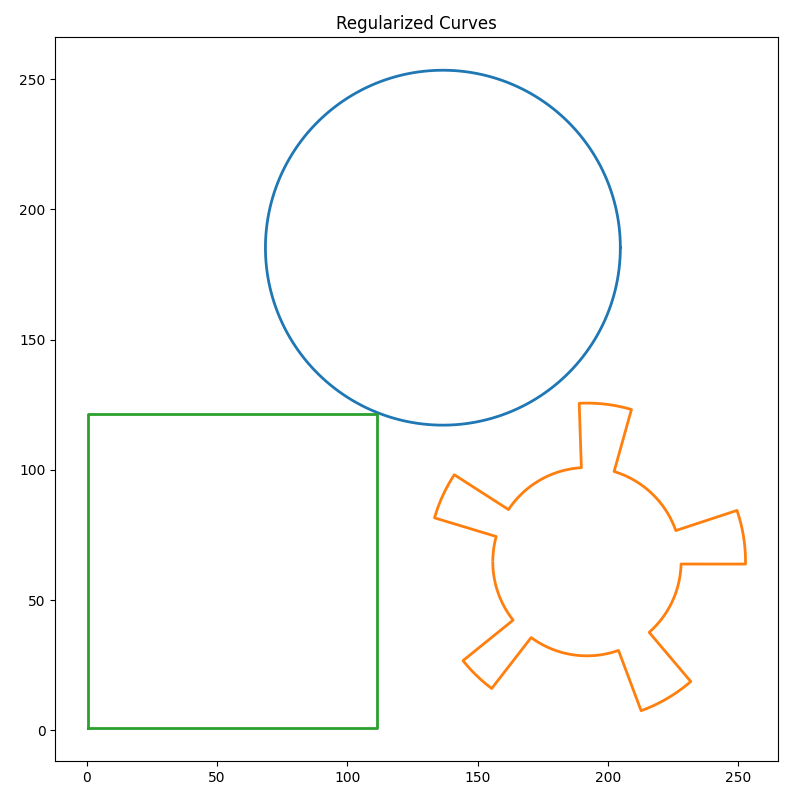
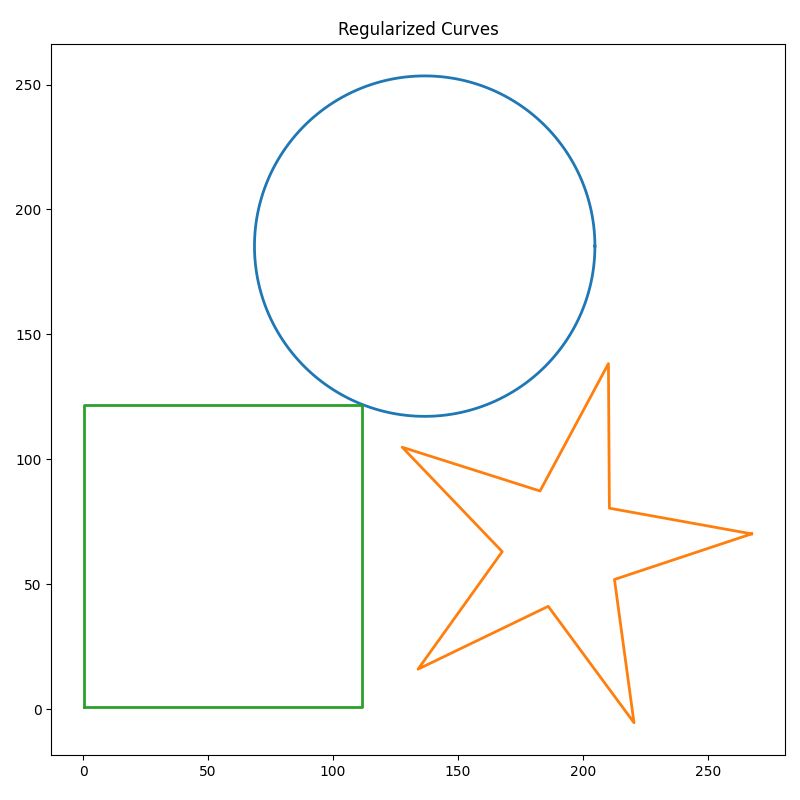
regularising star fixed

diff --git a/regularize_curves/temp.py b/regularize_curves/temp.py
@@ -27,16 +27,12 @@ def regularize_rectangle(XY):
     rectangle_Y = [min_y, min_y, max_y, max_y, min_y]
     return np.vstack((rectangle_X, rectangle_Y)).T
 
-def regularize_star(XY):
-    # Placeholder for star shape regularization
-    # Implement star shape regularization here
-    return XY
-
 
 def is_circle(points, tol=0.2):
     center = np.mean(points, axis=0)
     distances = np.linalg.norm(points - center, axis=1)
     return np.allclose(distances, distances[0], rtol=tol)
+
 
 def is_regular_polygon(points, tol=0.2):
     vectors = np.diff(points, axis=0, append=points[:1])
@@ -45,6 +41,7 @@ def is_regular_polygon(points, tol=0.2):
     norms = np.linalg.norm(vectors[:-1], axis=1) * np.linalg.norm(vectors[1:], axis=1)
     angles = np.arccos(np.clip(dot_products / norms, -1.0, 1.0))
     return np.allclose(side_lengths, side_lengths[0], rtol=tol) and np.allclose(angles, angles[0], rtol=tol)
+
 
 def is_star_shape(points, tol=0.1):
     center = np.mean(points, axis=0)
@@ -63,46 +60,54 @@ def is_star_shape(points, tol=0.1):
     alternating_pattern = np.allclose(angle_diffs[::2], expected_diffs, atol=tol)
     return alternating_pattern
 
-def regularize_star_shape_(XY):
-    # Calculate the center of the points
-    center = np.mean(XY, axis=0)
-    # Calculate distances from the center and angles
-    distances = np.linalg.norm(XY - center, axis=1)
-    angles = np.arctan2(XY[:, 1] - center[1], XY[:, 0] - center[0])
-    
-    # Sort by angle
-    sorted_indices = np.argsort(angles)
-    sorted_distances = distances[sorted_indices]
-    sorted_angles = angles[sorted_indices]
-    
-    # Identify peaks and valleys based on distance
-    mean_distance = np.mean(sorted_distances)
-    peaks = sorted_distances > mean_distance
-    valleys = sorted_distances <= mean_distance
-    
-    peak_distances = sorted_distances[peaks]
-    valley_distances = sorted_distances[valleys]
-    
-    mean_peak_distance = np.mean(peak_distances)
-    mean_valley_distance = np.mean(valley_distances)
-    
-    regularized_points = []
-    peak_idx = 0
-    valley_idx = 0
-    for i in range(len(sorted_angles)):
-        angle = sorted_angles[i]
-        if peaks[i % len(peaks)]:
-            distance = mean_peak_distance
-            peak_idx += 1
+
+def draw_star_shape(center, inner_radius, outer_radius, rotation_angle):
+    num_points = 5  # Number of star points
+    angle_step = np.pi / num_points  # Angle between star points
+
+    # Generate points for the star
+    points = []
+    for i in range(num_points * 2):
+        angle = i * angle_step + np.radians(rotation_angle)
+        if i % 2 == 0:
+            r = outer_radius
         else:
-            distance = mean_valley_distance
-            valley_idx += 1
-        
-        x = center[0] + distance * np.cos(angle)
-        y = center[1] + distance * np.sin(angle)
-        regularized_points.append([x, y])
-    
-    return np.array(regularized_points)
+            r = inner_radius
+        x = center[0] + r * np.cos(angle)
+        y = center[1] + r * np.sin(angle)
+        points.append((x, y))
+
+    # Add the first point at the end to close the star
+    points.append(points[0])
+    x_points, y_points = zip(*points)
+    return np.array(points)
+
+
+def regularize_star_shape_(XY):
+    # detect the center of the star
+    center = np.mean(XY, axis=0)
+    # print("Center: ", center)
+
+    # detect the outer radius of the star
+    distances = np.linalg.norm(XY - center, axis=1)
+    outer_radius = np.max(distances)
+    # print("Outer Radius: ", outer_radius)
+
+    # detect the inner radius of the star
+    inner_radius = np.min(distances)
+    # print("Inner Radius: ", inner_radius)
+
+    # detect the rotation angle of the star from the x-axis
+    angles = np.arctan2(XY[:, 1] - center[1], XY[:, 0] - center[0])
+    angles = np.sort(angles)
+    angle_diffs = np.diff(np.concatenate([angles, [angles[0] + 2 * np.pi]]))
+    expected_diffs = np.pi / (len(XY) // 2)
+    rotation_angle = np.mean(angles)
+    # print("Rotation Angle: ", rotation_angle)
+
+    # draw the star shape
+    star_points = draw_star_shape(center, inner_radius, outer_radius, np.degrees(rotation_angle))
+    return star_points
 
 
 def identify_and_regularize(XY):
